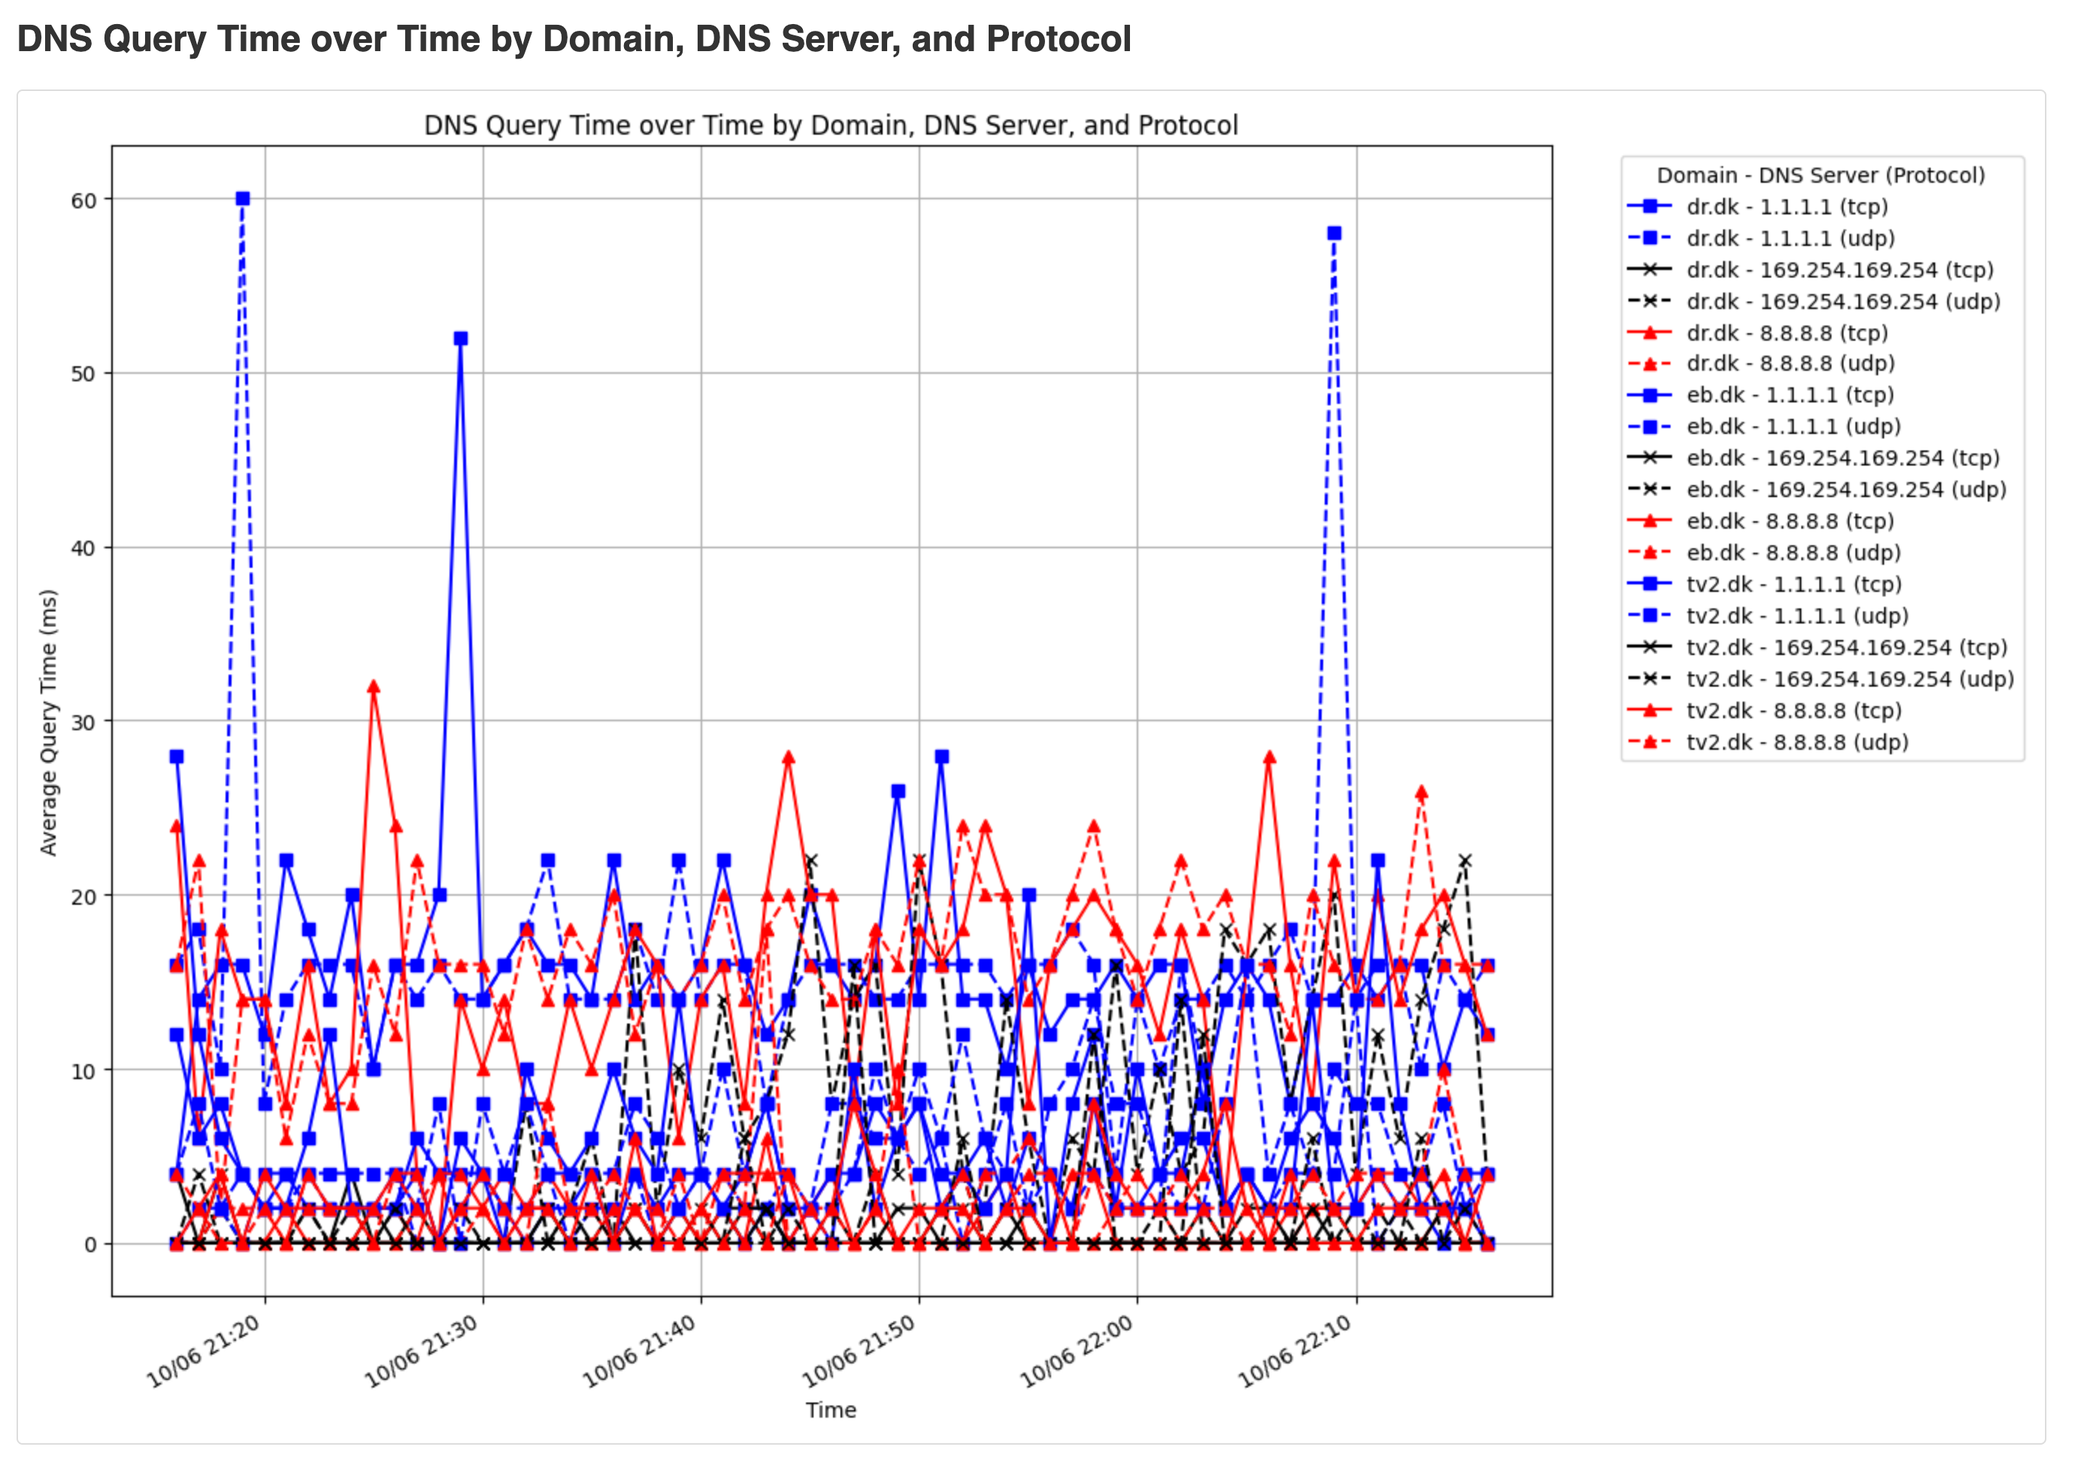
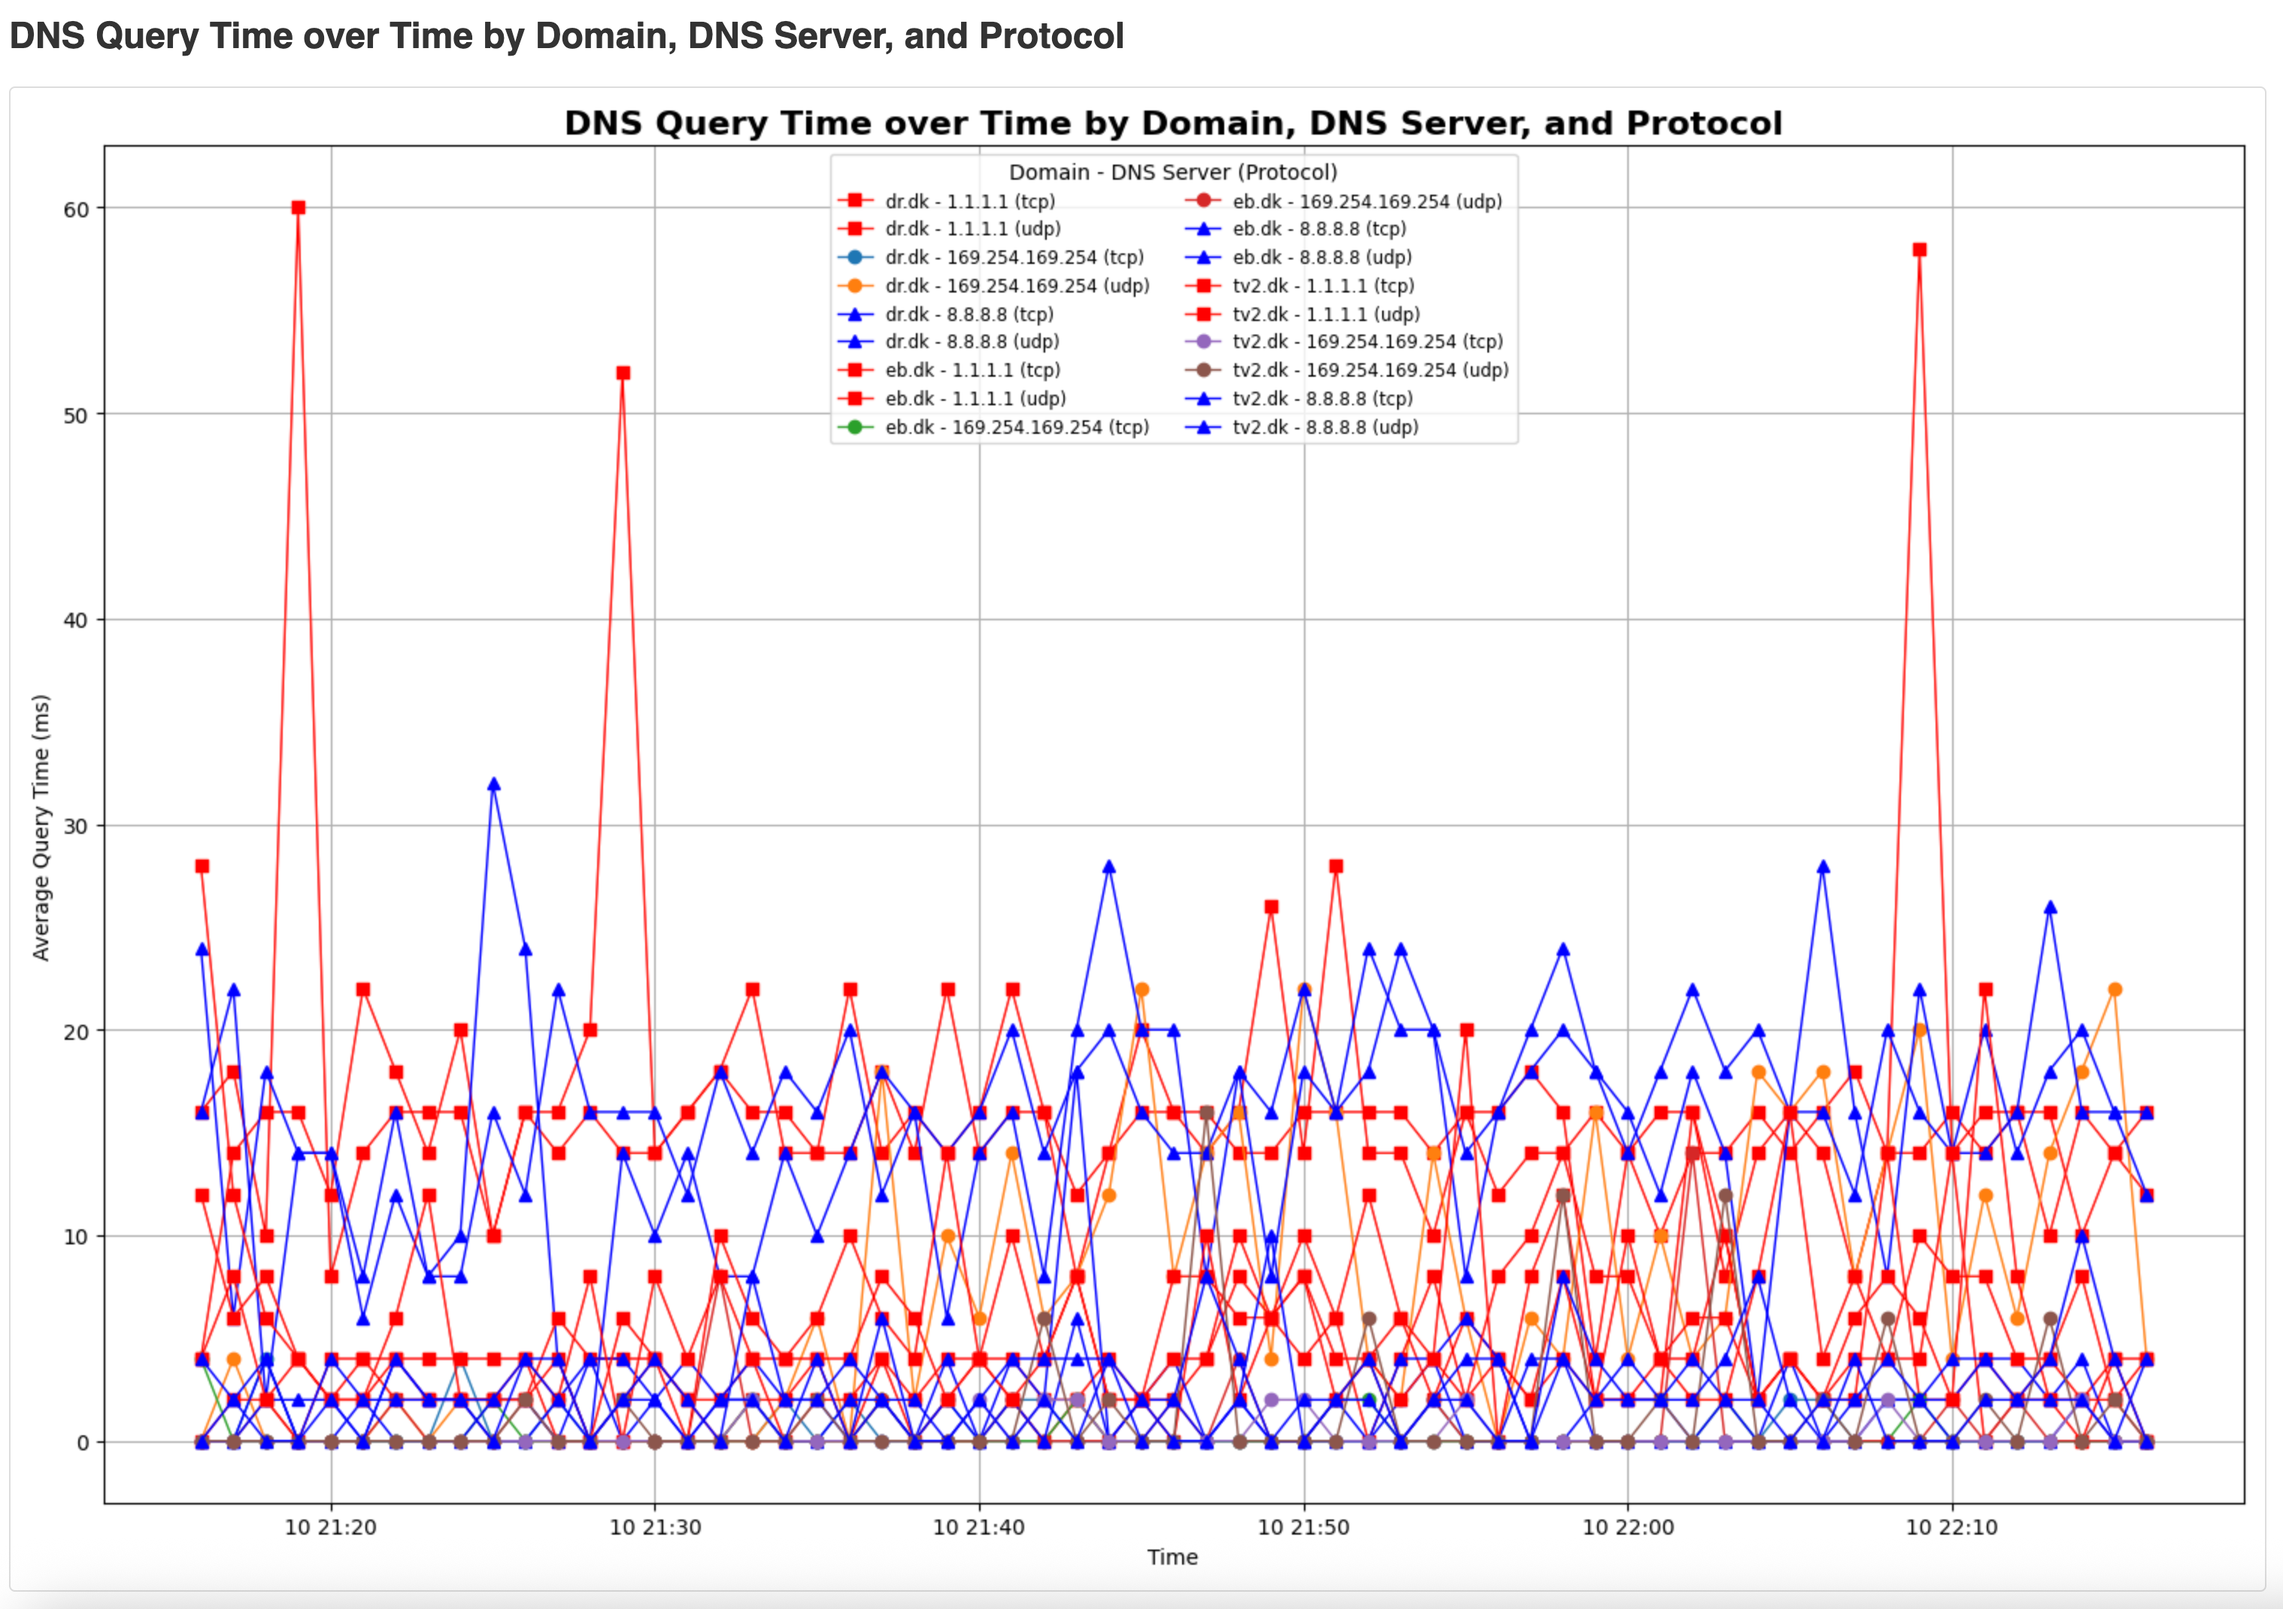
update python plot

diff --git a/dns_plot_to_html.py b/dns_plot_to_html.py
@@ -1,15 +1,10 @@
+import sys
 import pandas as pd
 import matplotlib.pyplot as plt
-import matplotlib.dates as mdates
-import base64
 from io import BytesIO
-import sys
+import base64
 
 def main():
-    """
-    Generates an HTML file with an embedded plot of DNS query times,
-    grouped by domain, DNS server, and protocol, using custom markers.
-    """
     # 1. Check for command-line arguments
     if len(sys.argv) != 3:
         print("Usage: python dns_plot_with_custom_markers.py <input_csv_file> <output_html_file>")
@@ -30,7 +25,7 @@ def main():
             .mean()
             .reset_index()
         )
-
+        df_agg['label'] = df_agg['domain'] + " - " + df_agg['dns_server'] + " (" + df_agg['protocol'] + ")"
     except FileNotFoundError:
         print(f"Error: The file '{input_csv_path}' was not found.")
         sys.exit(1)
@@ -38,66 +33,36 @@ def main():
         print(f"An error occurred while processing the CSV file: {e}")
         sys.exit(1)
 
-
-    # 3. Define visualization styles
-    # Colors for DNS servers
+    # 3. Color and marker settings
     color_map = {
-        '8.8.8.8': 'red',
-        '1.1.1.1': 'blue',
+        '1.1.1.1': 'red',
+        '8.8.8.8': 'blue'
     }
-    # Line styles for protocols
-    linestyle_map = {
-        'udp': '--',  # Dashed line for UDP
-        'tcp': '-'    # Solid line for TCP
-    }
-    # === MODIFICATION START ===
-    # Markers for DNS Servers as requested by the user
     marker_map = {
-        '1.1.1.1': 's',           # 's' for square
-        '8.8.8.8': '^',           # '^' for triangle
+        '1.1.1.1': 's',   # Square
+        '8.8.8.8': '^'    # Triangle
     }
-    # === MODIFICATION END ===
 
+    # 4. Plotting
+    fig = plt.figure(figsize=(15, 10))
+    for label, group in df_agg.groupby("label"):
+        dns_server = group['dns_server'].iloc[0]
+        color = color_map.get(dns_server, None)  # Default color if not specified
+        marker = marker_map.get(dns_server, 'o') # Default marker if not specified
+        plt.plot(group["minute"], group["query_time_ms"],
+                 label=label,
+                 marker=marker,
+                 linewidth=1,
+                 color=color)
 
-    # 4. Create the plot
-    fig, ax = plt.subplots(figsize=(16, 9))
+    plt.title("DNS Query Time over Time by Domain, DNS Server, and Protocol", fontsize=16, fontweight='bold')
+    plt.xlabel("Time")
+    plt.ylabel("Average Query Time (ms)")
+    plt.legend(loc="best", fontsize="small", ncol=2, title="Domain - DNS Server (Protocol)")
+    plt.grid(True)
+    plt.tight_layout()
 
-    # Group by domain, server, and protocol to plot each combination
-    for (domain, dns_server, protocol), group_data in df_agg.groupby(['domain', 'dns_server', 'protocol']):
-        label = f"{domain} - {dns_server} ({protocol})"
-        
-        # Assign styles based on the maps
-        color = color_map.get(dns_server, 'black')
-        linestyle = linestyle_map.get(protocol, ':')
-        # === MODIFICATION START ===
-        # Assign marker based on the DNS server
-        marker = marker_map.get(dns_server, 'x') # Default to 'x'
-        # === MODIFICATION END ===
-
-        ax.plot(group_data['minute'], group_data['query_time_ms'],
-                marker=marker, # Apply the new marker
-                linestyle=linestyle,
-                color=color,
-                label=label)
-
-    # 5. Format the plot
-    ax.set_title('DNS Query Time over Time by Domain, DNS Server, and Protocol')
-    ax.set_xlabel('Time')
-    ax.set_ylabel('Average Query Time (ms)')
-    ax.grid(True)
-
-    # Format the x-axis to display dates clearly
-    ax.xaxis.set_major_formatter(mdates.DateFormatter('%d/%m %H:%M'))
-    fig.autofmt_xdate()
-
-    # Place legend outside the plot area for readability
-    ax.legend(title='Domain - DNS Server (Protocol)', bbox_to_anchor=(1.04, 1), loc="upper left")
-    
-    # Adjust layout to make space for the legend
-    plt.tight_layout(rect=[0, 0, 0.85, 1])
-
-
-    # 6. Embed the plot into an HTML file
+    # 5. Save to buffer and create HTML
     buffer = BytesIO()
     plt.savefig(buffer, format='png', bbox_inches='tight')
     buffer.seek(0)
@@ -129,3 +94,4 @@ def main():
 
 if __name__ == '__main__':
     main()
+
